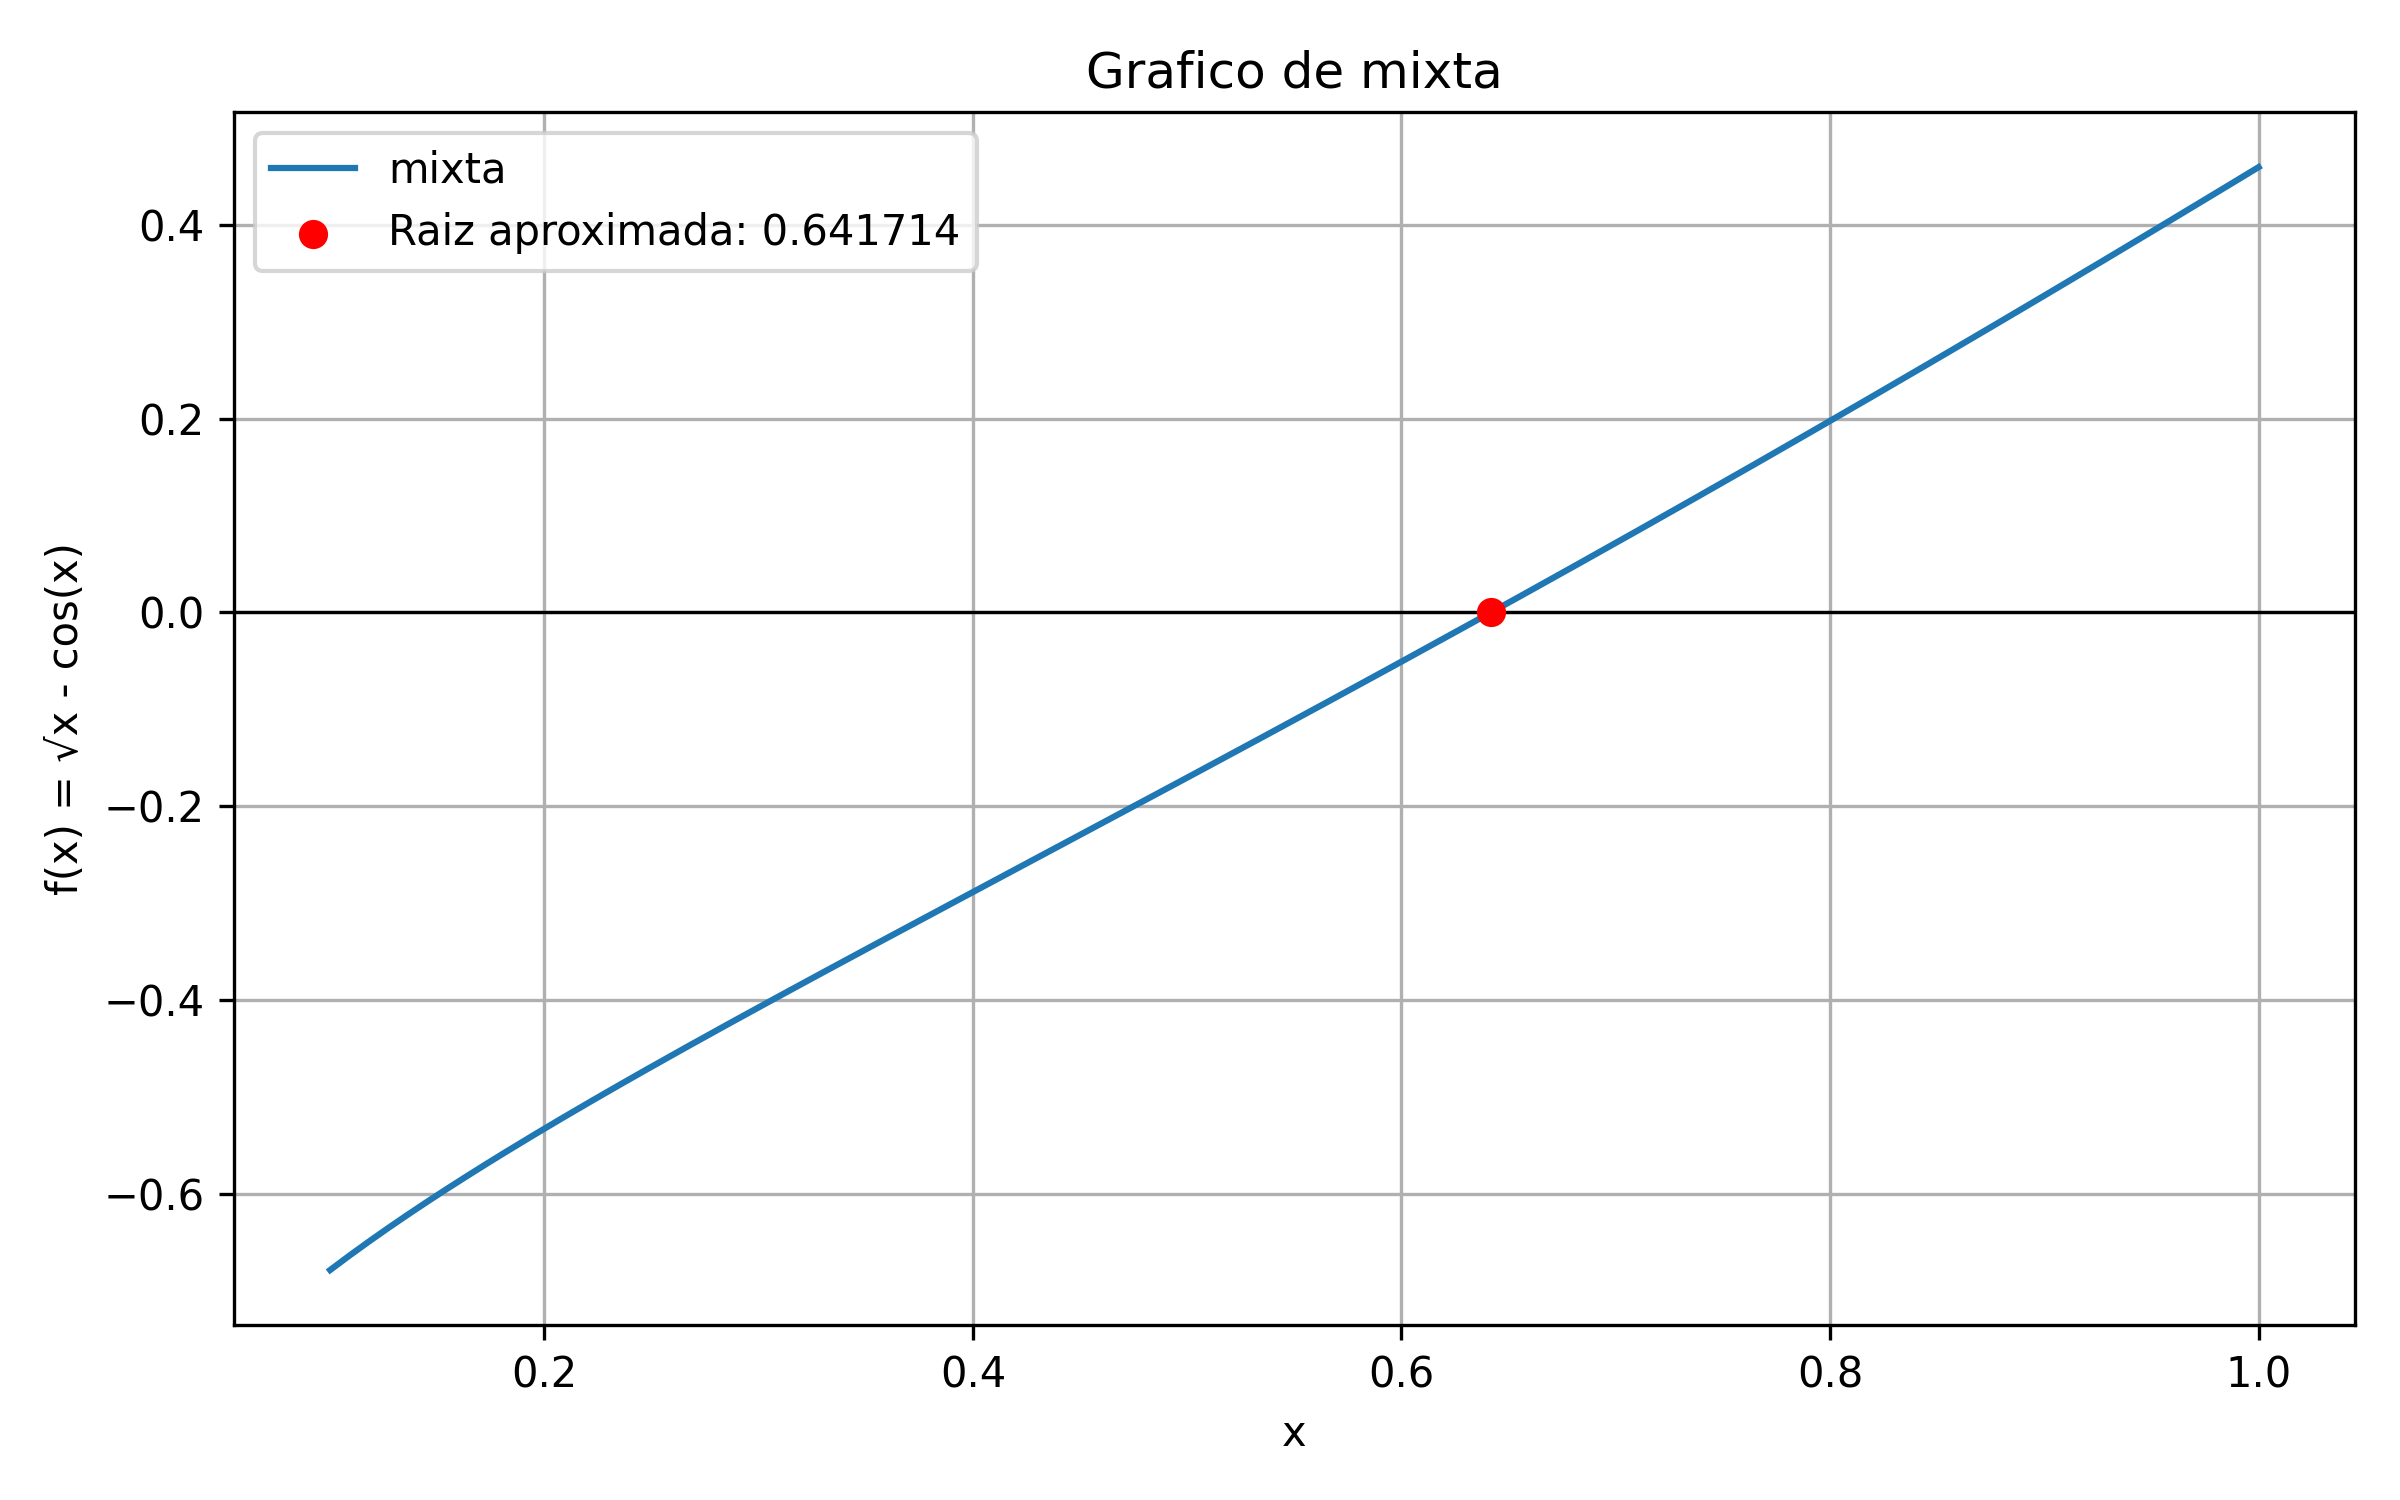
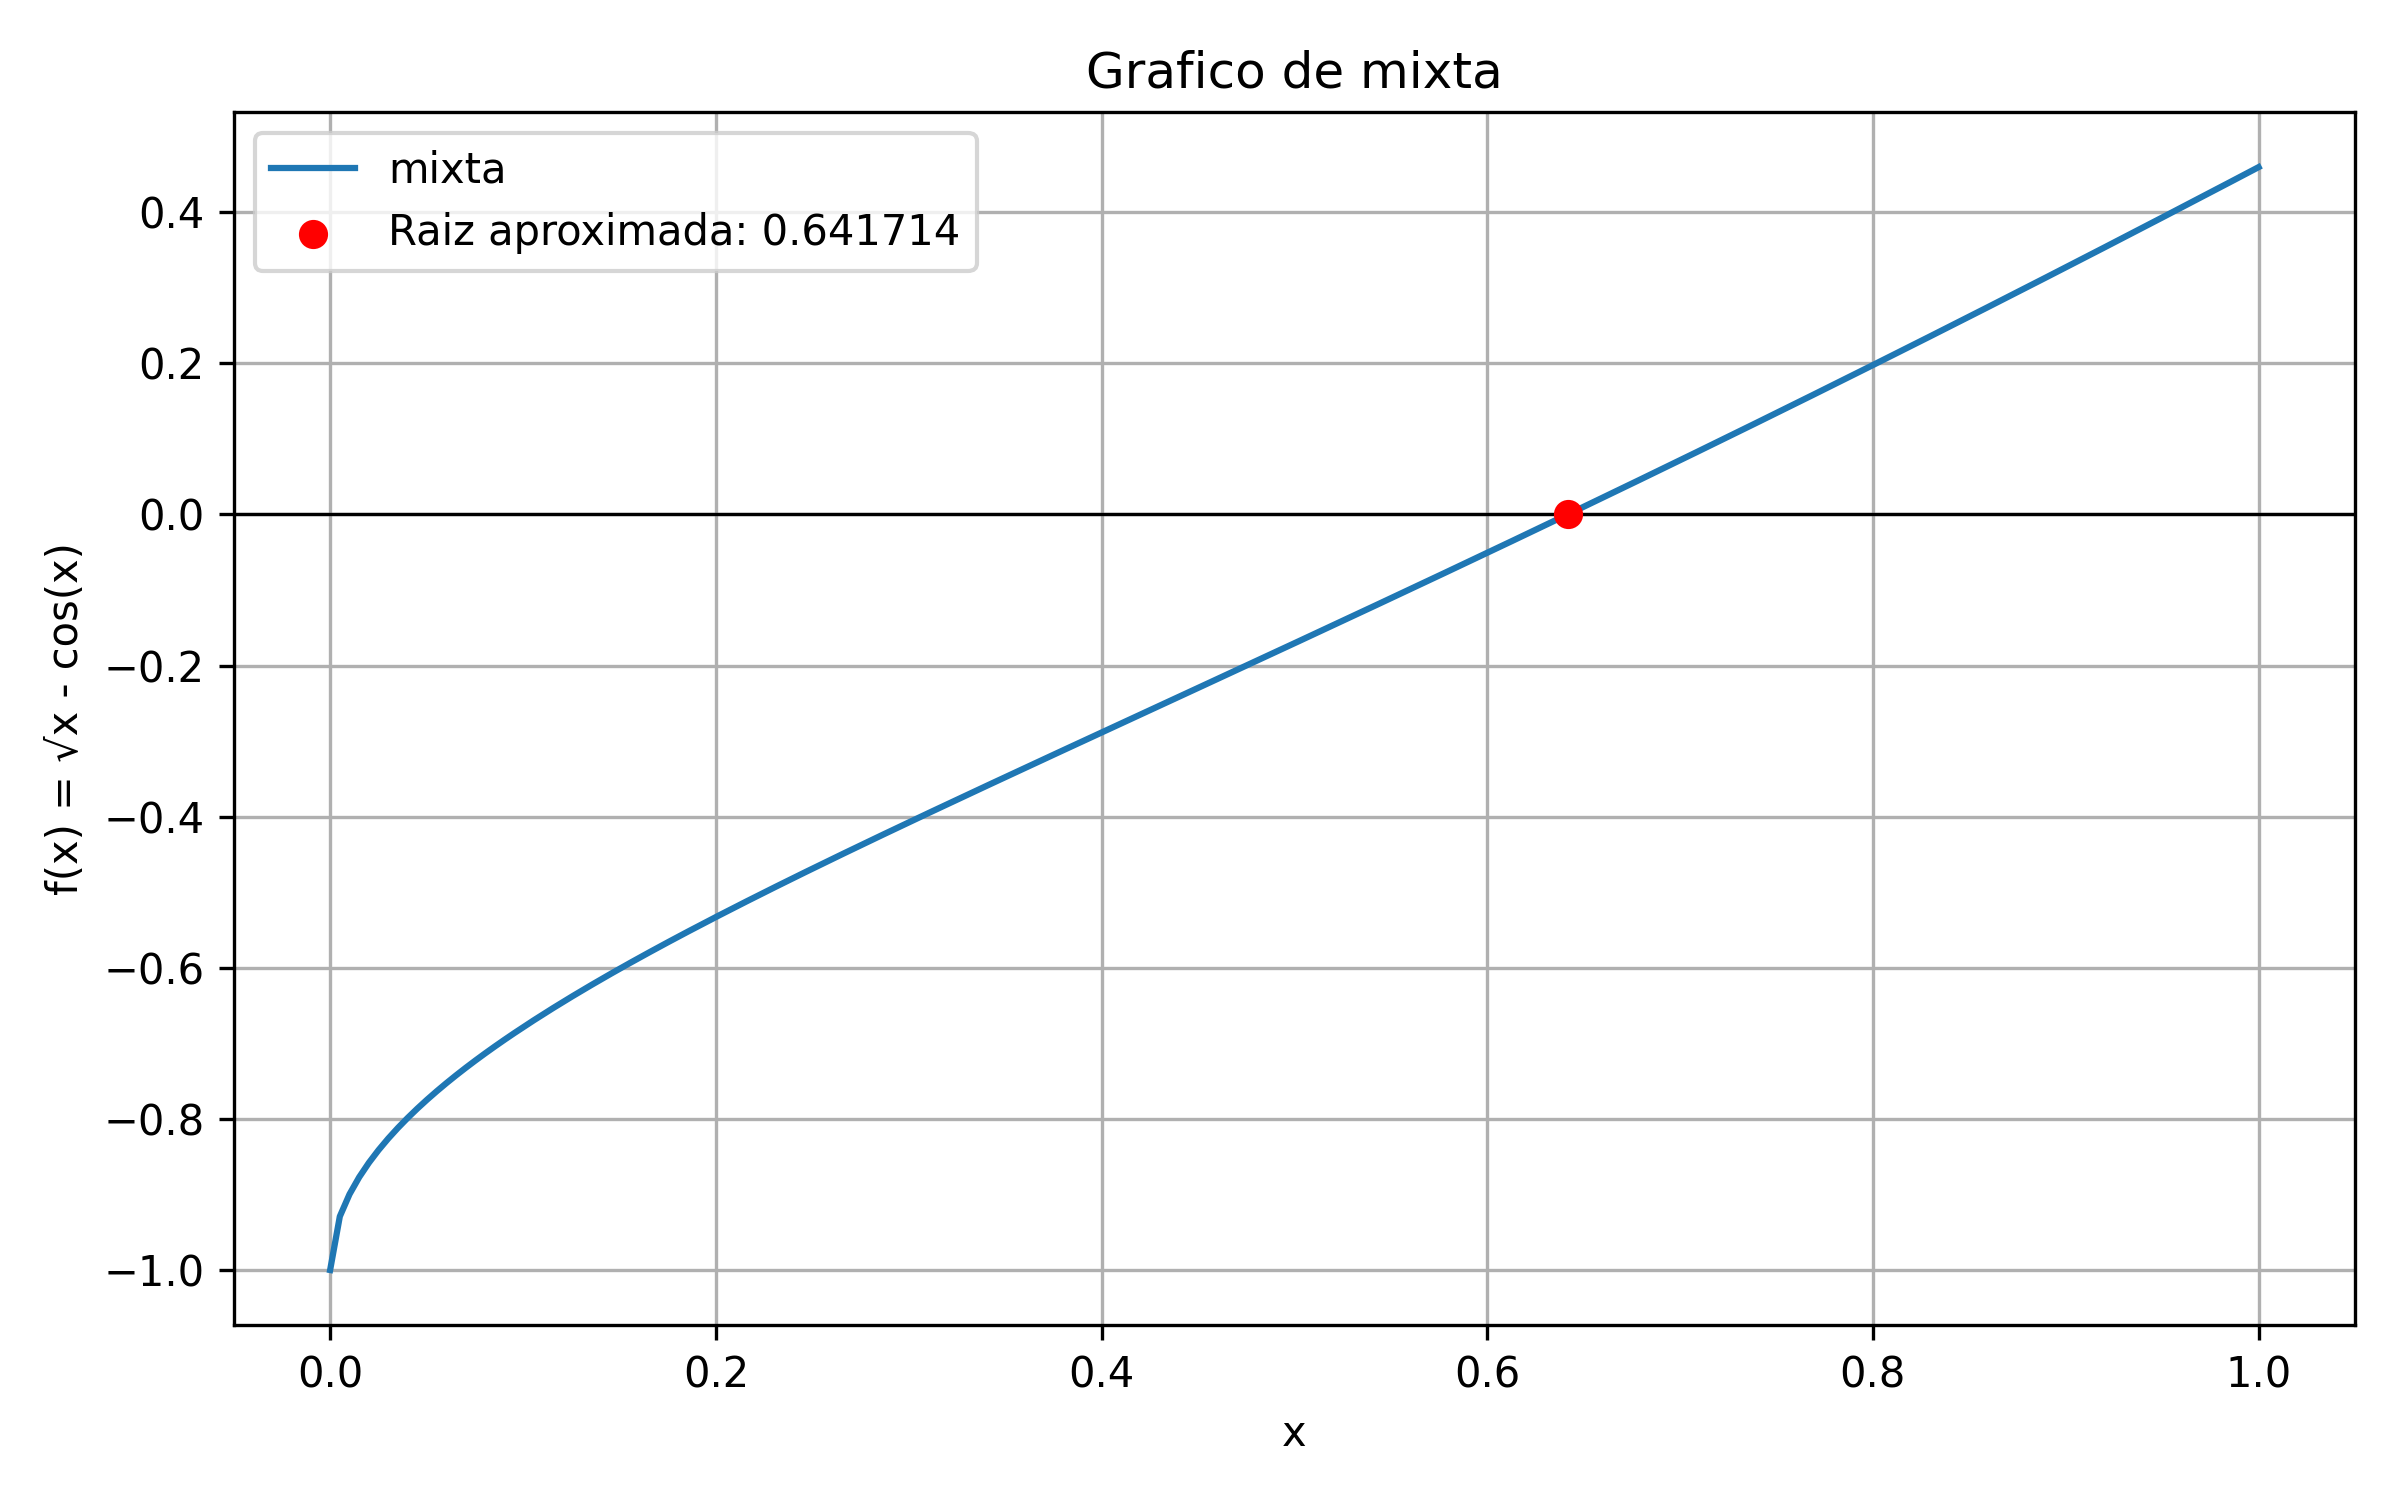
fun
fun

diff --git a/src/scripts/experimentos.py b/src/scripts/experimentos.py
@@ -6,6 +6,9 @@ from metodos import biseccion, falsa_posicion, secante
 from funciones import fun_polinomica
 from funciones import fun_raiz_doble
 from funciones import fun_logaritmica
+from funciones import fun_exponencial
+from funciones import fun_trigonometrica
+from funciones import fun_mixta
 
 # fun para guardar los resultados en un archivo CSV
 def guardar_resumen(resultados):
@@ -184,33 +187,39 @@ def main():
         3,
         200
     )
+<<<<<<< Updated upstream
 
+=======
+    
+    
+>>>>>>> Stashed changes
     # Generamos el CSV de la funcion exponencial.
-    guardar_datos_funcion(
+    guardar_datos_fun(
         "exponencial",
-        funcion_exponencial,
+        fun_exponencial,
         0,
         1,
         200
     )
 
     # Generamos el CSV de la funcion trigonometrica.
-    guardar_datos_funcion(
+    guardar_datos_fun(
         "trigonometrica",
-        funcion_trigonometrica,
+        fun_trigonometrica,
         0,
         1,
         200
     )
 
     # Generamos el CSV de la funcion mixta.
-    guardar_datos_funcion(
+    guardar_datos_fun(
         "mixta",
-        funcion_mixta,
+        fun_mixta,
         0.1,
         1,
         200
     )
+
 
     print("\nExperimento finalizado correctamente.")
 
